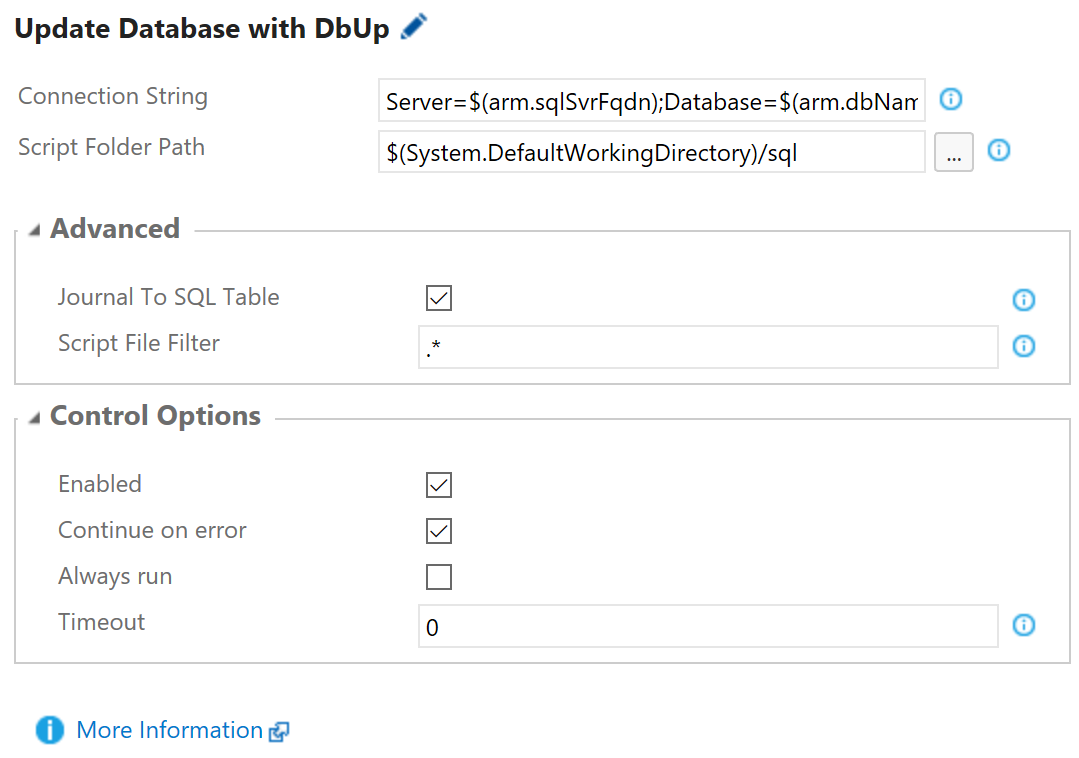
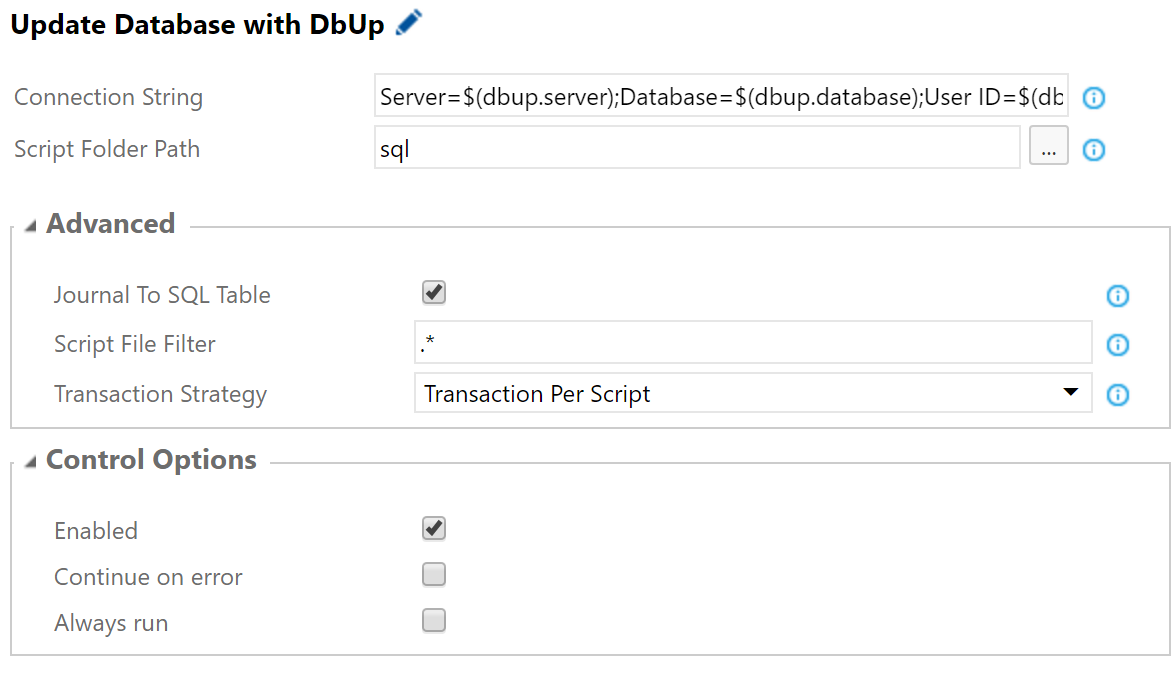
Set transaction strategy

diff --git a/UpdateDatabaseWithDbUp/README.md b/UpdateDatabaseWithDbUp/README.md
@@ -20,7 +20,7 @@ I am not the author of DbUp, but a mere user of that awesome library.
 
 You will find the *Update Database with DbUp*-build and release task under the *deploy* category.
 
-<img src="https://github.com/johanclasson/vso-agent-tasks/raw/master/UpdateDatabaseWithDbUp/example.png" alt="Update Database with DbUp User Interface" width="500" height="351">
+<img src="https://github.com/johanclasson/vso-agent-tasks/raw/master/UpdateDatabaseWithDbUp/example.png" alt="Update Database with DbUp User Interface" width="500" height="291">
 
 ### Parameters
 
@@ -30,6 +30,7 @@ You will find the *Update Database with DbUp*-build and release task under the *
 | Script Folder Path | The path where the migration scripts to run are. |
 | Journal To SQL Table | If set, each migration script will only be run once. A journal of the already run scripts is kept in the table `_SchemaVersions`. |
 | Script File Filter | A regular expression used against the full path of the migration scripts to select which to run. |
+| Transaction Strategy | Select one of *No Transactions*, *Transaction Per Script* and *Single Transaction*. |
 
 #### An Example
 
@@ -47,4 +48,11 @@ The *Update Database With DbUp*-task downloads the latest version of DbUp during
 
 ## Limitations
 
-Although DbUp supports many databases, this extension currently only works with Microsoft SQL Server or Microsoft SQL Azure. You can contribute to this extension through its [GitHub Repository](https://github.com/johanclasson/vso-agent-tasks/tree/master/UpdateDatabaseWithDbUp). 
+Although DbUp supports many databases, this extension currently only works with Microsoft SQL Server or Microsoft SQL Azure. You can contribute to this extension through its [GitHub Repository](https://github.com/johanclasson/vso-agent-tasks/tree/master/UpdateDatabaseWithDbUp).
+
+## Release Notes
+
+| When | Version | What |
+|------|---------|------|
+| 2016-10-23 | 0.10.0 | Fix log issue on TFS2015, and added transaction selection feature. |
+| 2016-10-20 | 0.9.0 | Initial release. |
